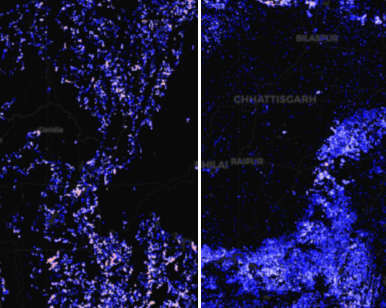
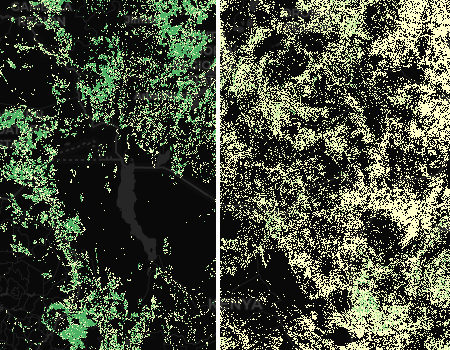
updates to layer palettes

diff --git a/scap/static/js/map.js b/scap/static/js/map.js
@@ -330,8 +330,8 @@ function  redraw_based_on_year() {
             pri_over_style = 'boxfill/crimsonyellowred';
             sec_over_style = 'boxfill/crimsonyellowred';
         } else {
-            pri_over_style = 'boxfill/redblue';
-            sec_over_style = 'boxfill/redblue';
+            pri_over_style = 'boxfill/scap-agb';
+            sec_over_style = 'boxfill/scap-agb';
         }
 
     }
@@ -443,8 +443,8 @@ function  redraw_based_on_year() {
 
             primary_overlay_url = `${base_thredds}/${selected_dataset_left_agb}/${thredds_dir}.1.${selected_dataset_left_agb}.nc4?service=WMS`;
             secondary_overlay_url = `${base_thredds}/${selected_dataset_right_agb}/${thredds_dir}.1.${selected_dataset_right_agb}.nc4?service=WMS`;
-             pri_over_style = 'boxfill/redblue';
-            sec_over_style = 'boxfill/redblue';
+             pri_over_style = 'boxfill/scap-agb';
+            sec_over_style = 'boxfill/scap-agb';
                         comparison_control = L.control.sideBySide([primary_overlay_layer], [secondary_overlay_layer]).addTo(map);
 
     }
@@ -543,8 +543,8 @@ function add_thredds_wms_layers(map_modal_action) {
         } else {
 
 
-            pri_over_style = 'boxfill/redblue';
-            sec_over_style = 'boxfill/redblue';
+            pri_over_style = 'boxfill/scap-agb';
+            sec_over_style = 'boxfill/scap-agb';
         }
 
     } else {
@@ -555,8 +555,8 @@ function add_thredds_wms_layers(map_modal_action) {
 
         primary_overlay_url = `${base_thredds}/${selected_dataset_left_agb}/${thredds_dir}.1.${selected_dataset_left_agb}.nc4?service=WMS`;
         secondary_overlay_url = `${base_thredds}/${selected_dataset_right_agb}/${thredds_dir}.1.${selected_dataset_right_agb}.nc4?service=WMS`;
-        pri_over_style = 'boxfill/redblue';
-        sec_over_style = 'boxfill/redblue';
+        pri_over_style = 'boxfill/scap-agb';
+        sec_over_style = 'boxfill/scap-agb';
     }
 
     try {
@@ -968,7 +968,7 @@ function get_stats_for_map() {
                  // max_left = data.em_left[0].max;
                  // min_right = data.em_right[0].min;
                  // max_right = data.em_right[0].max;
-                 palette = "redblue";
+                 palette = "scap-agb";
                  title = "Carbon Emission Estimations";
                   document.getElementById('modal_usecase_title').innerHTML = title;
 
@@ -1060,7 +1060,7 @@ function get_stats_for_map() {
                       max_right=550
 
                   }
-                 palette="redblue";
+                 palette="scap-agb";
                  title="Above Ground Biomass Estimation Comparison";
                   document.getElementById('modal_usecase_title').innerHTML = title;
                 text_between="The color scales for the <strong>Above Ground Biomass (AGB)</strong> estimation source you have selected, are:";
